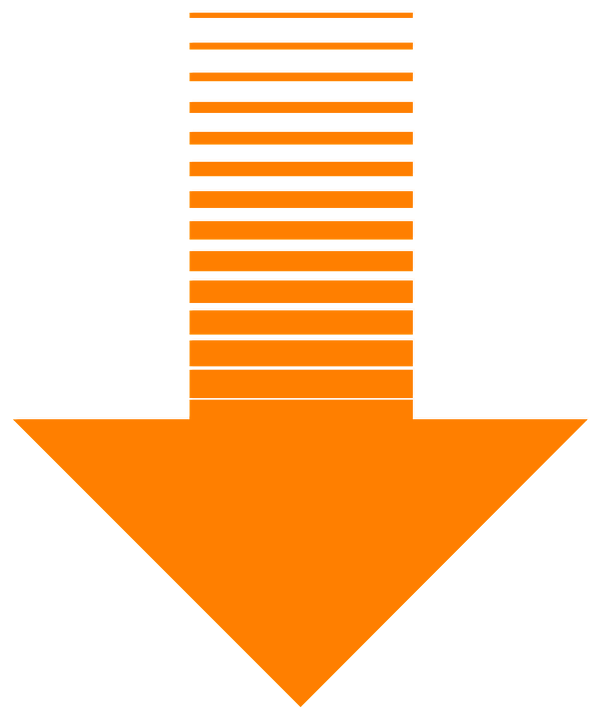
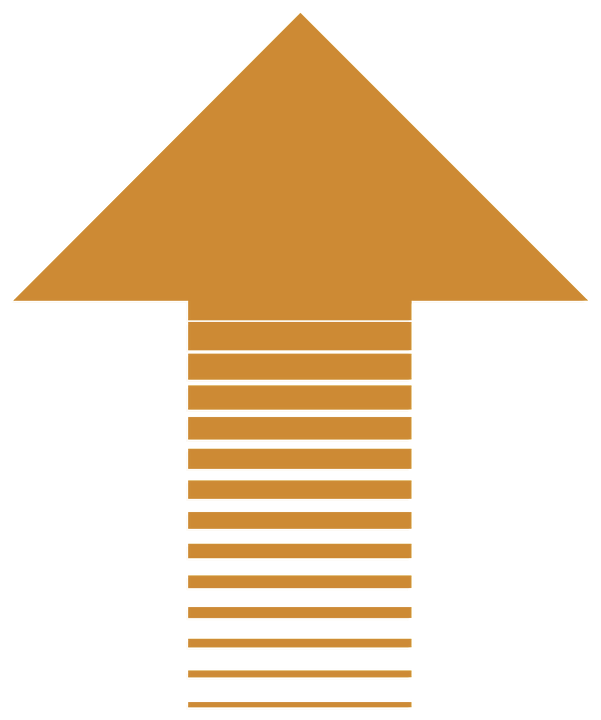
sti point vectors converted from degrees to radians

diff --git a/chip_app/src/js/misc.js b/chip_app/src/js/misc.js
@@ -135,9 +135,9 @@ export function getFYEColors(feature) {
 };
 
 export function getSTIRotation(feature) {
-    if (!feature || !(typeof feature.get === 'function')) return 0;
+    // if (!feature || !(typeof feature.get === 'function')) return 0;
     
     let vector = feature.get("Vector");
     
-    return vector
+    return vector * (3.14/180)
 };
